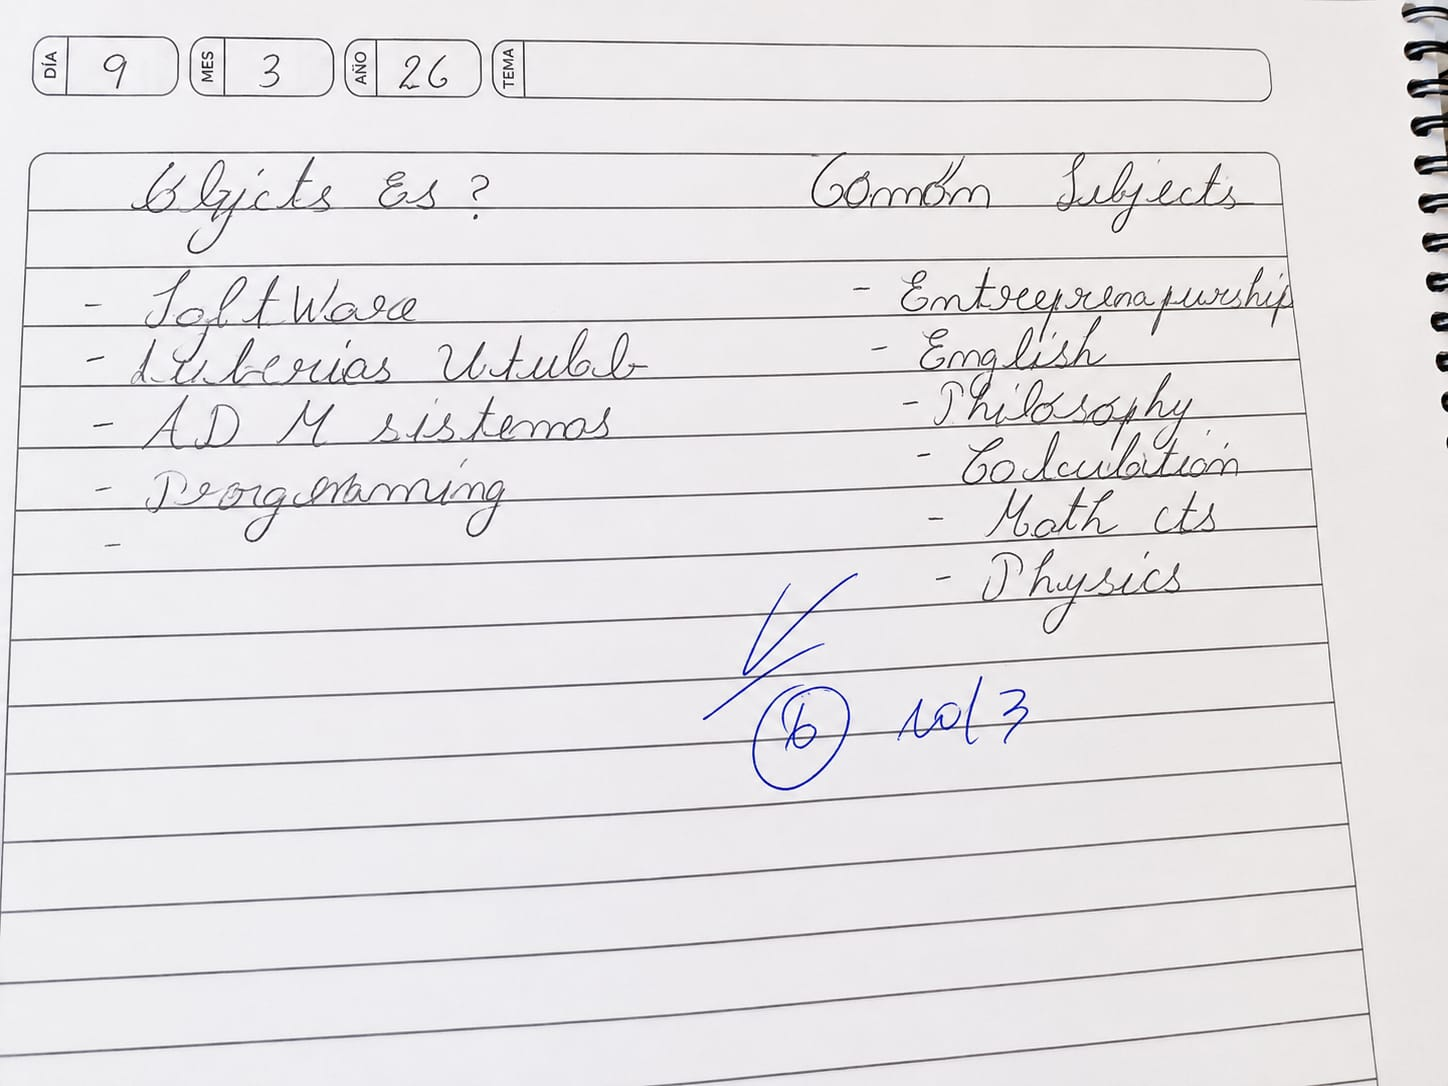
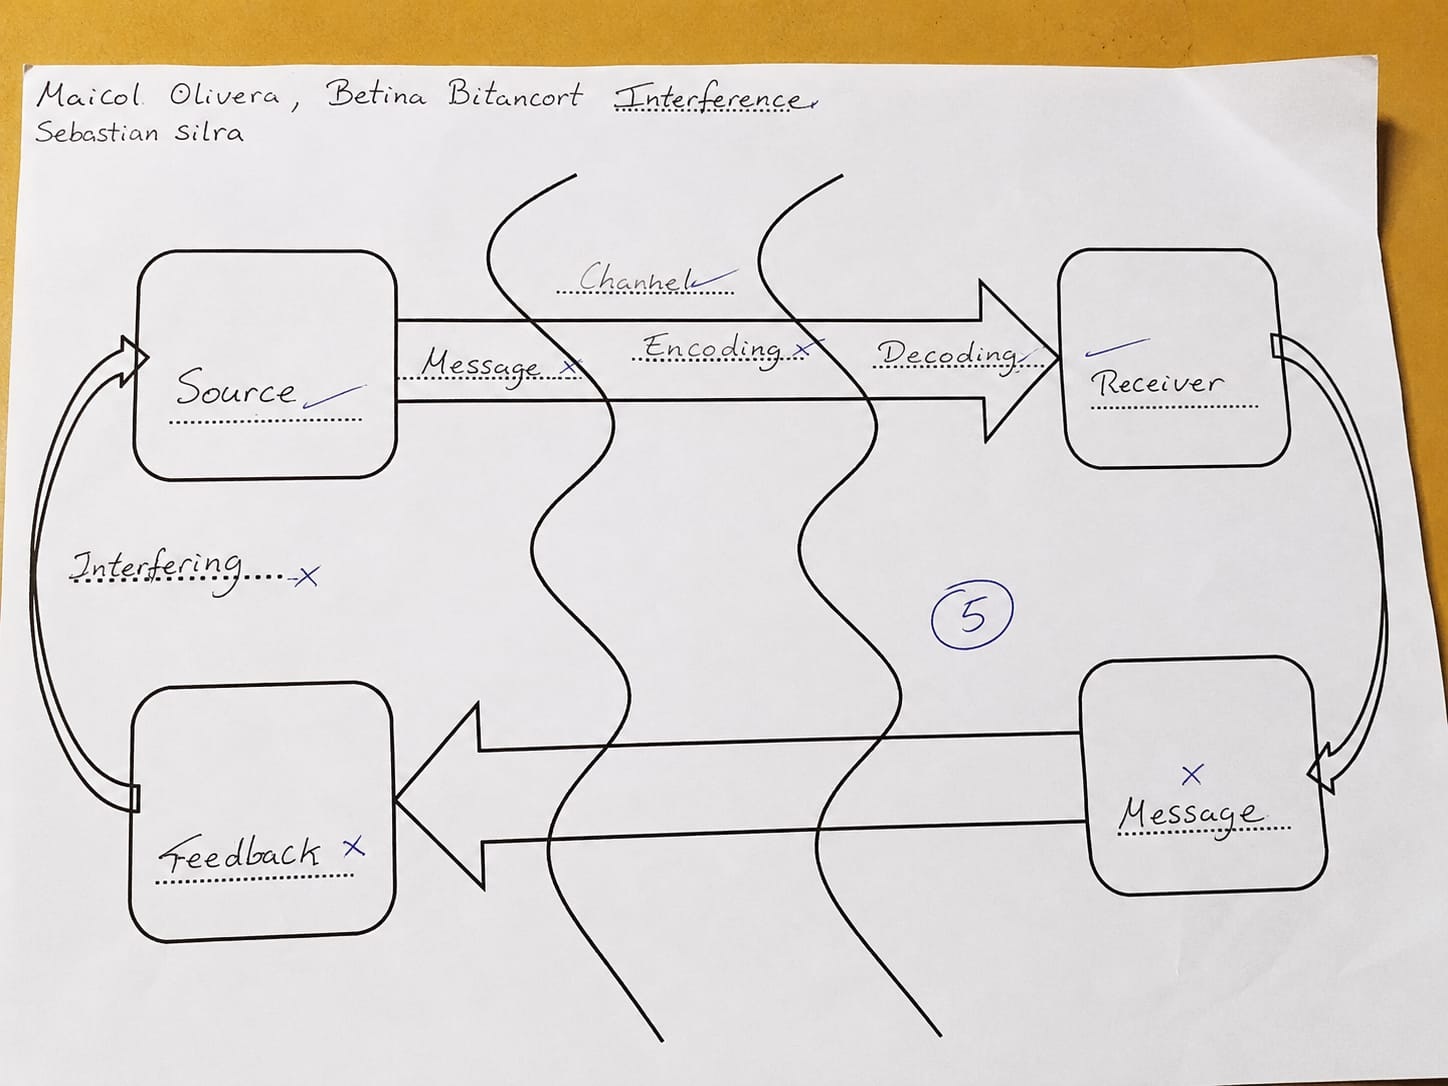
Actualizar portafolio

diff --git a/portfolio-2025-main/src/features/projects/components/Media.vue b/portfolio-2025-main/src/features/projects/components/Media.vue
@@ -154,17 +154,17 @@ onMounted(async () => {
     }
   }
 
-  &-image {
-    width: 100%;
-    height: 100%;
-    object-fit: cover;
-  }
+ &-image {
+  width: 100%;
+  height: 100%;
+  object-fit: contain;
+}
 
-  &-video {
-    width: 100%;
-    height: 100%;
-    object-fit: cover;
-  }
+&-video {
+  width: 100%;
+  height: 100%;
+  object-fit: contain;
+}
 
   &-content {
     overflow: hidden;
